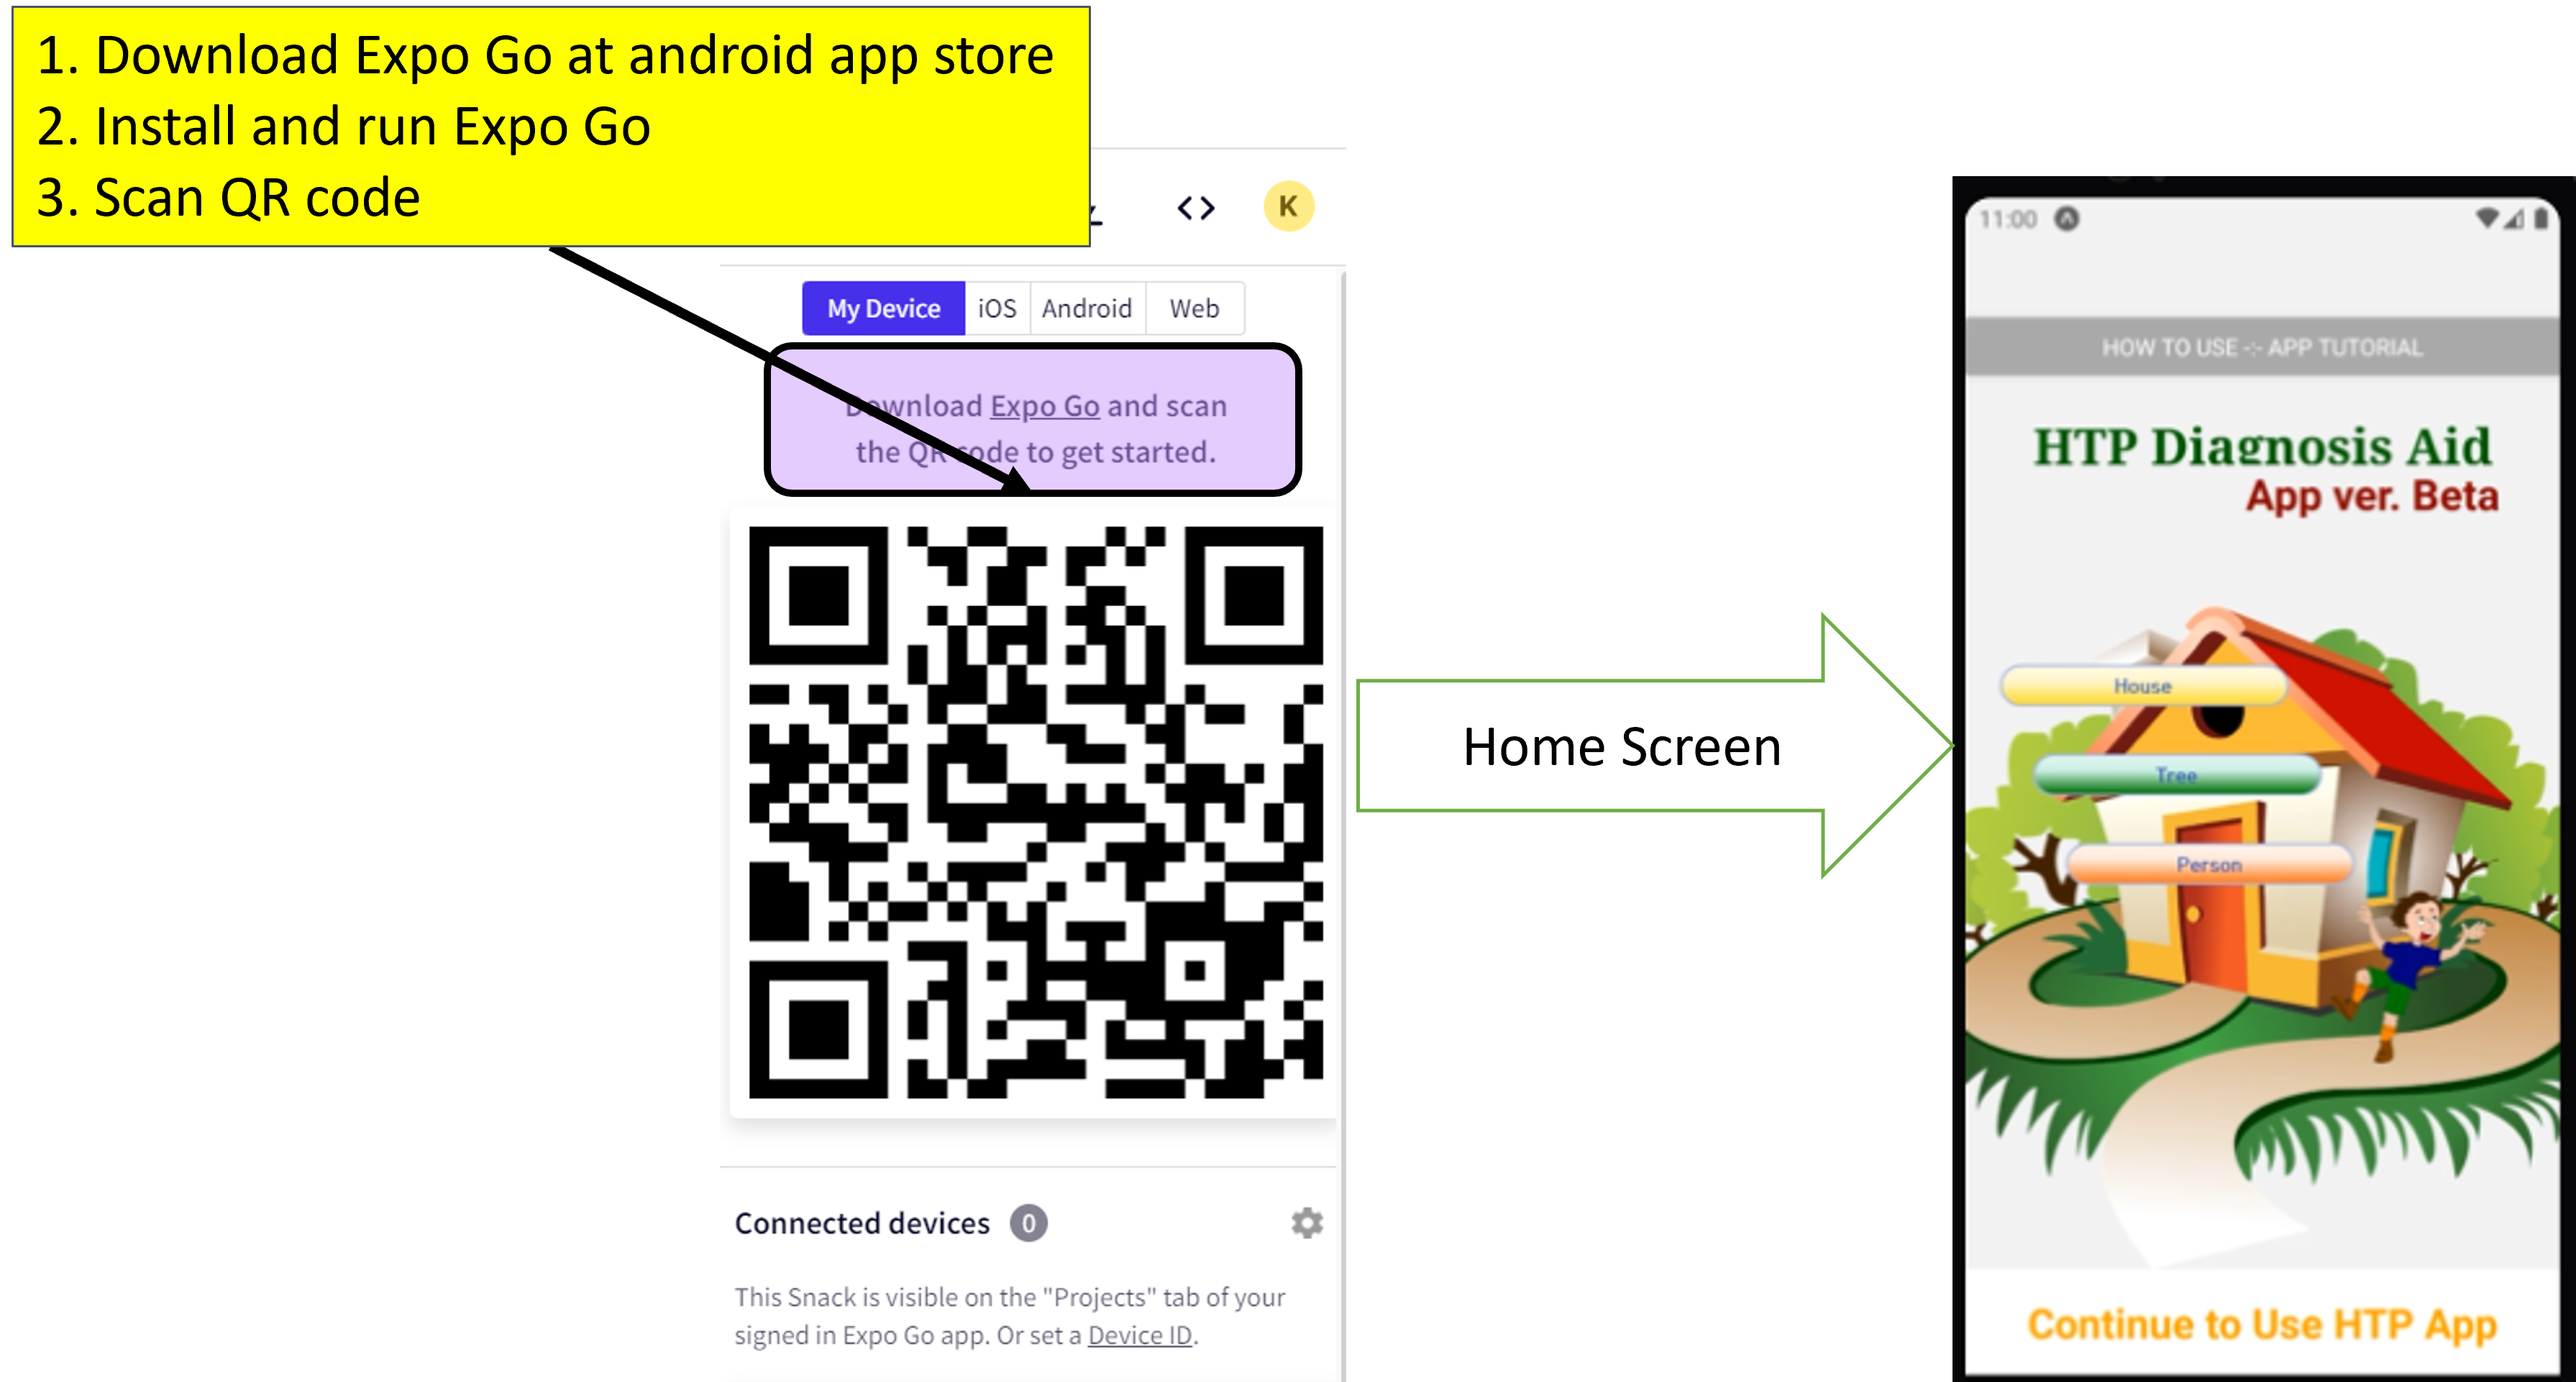
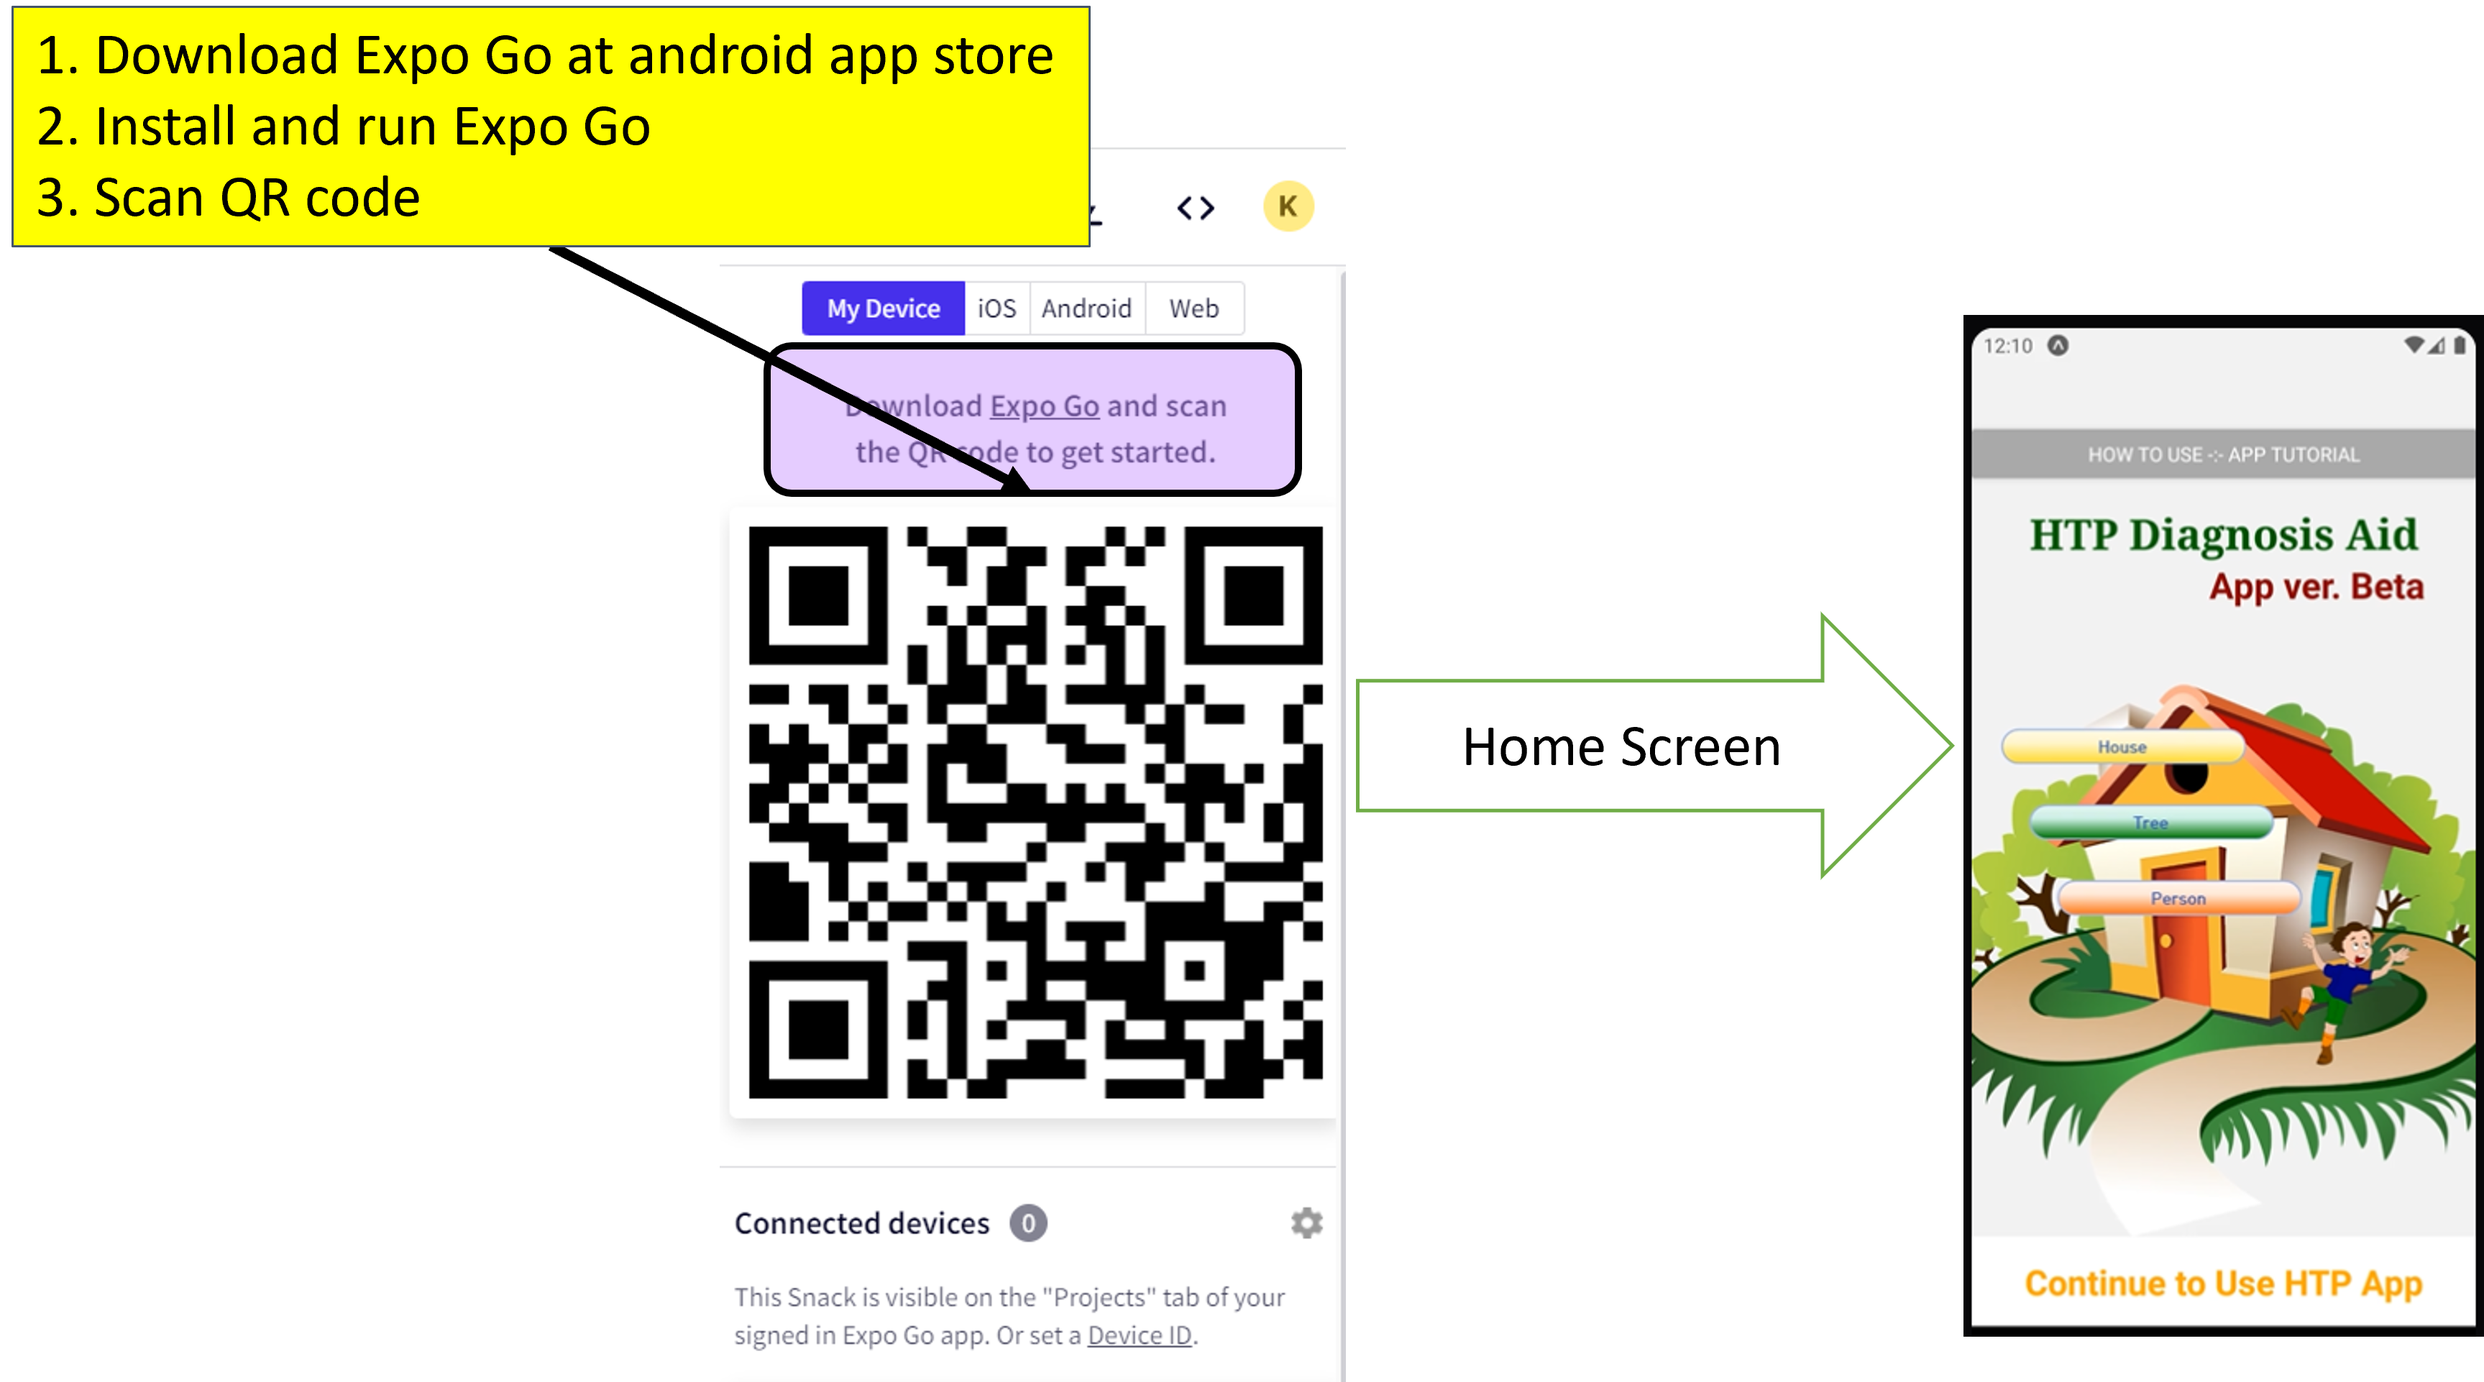
HomeScreen
Minor layout change

diff --git a/components/HomeScreen.js b/components/HomeScreen.js
@@ -55,7 +55,7 @@ function HomeScreen({navigation}){
       <Button title="How to Use -:- App Tutorial" color='darkgrey' onPress={()=> navigation.push('Tutorial')} /> 
       {/* View window for 2 line-text at the top */}
       <View style={
-        [{flex:0.08},{alignItems: 'center'}, {justifyContent:'flex-end'},
+        [{flex:0.1},{alignItems: 'center'}, {justifyContent:'flex-end'},
         {marginTop:'15%'}
         ]}>
         {/* Text Size setup depending on window size */}
